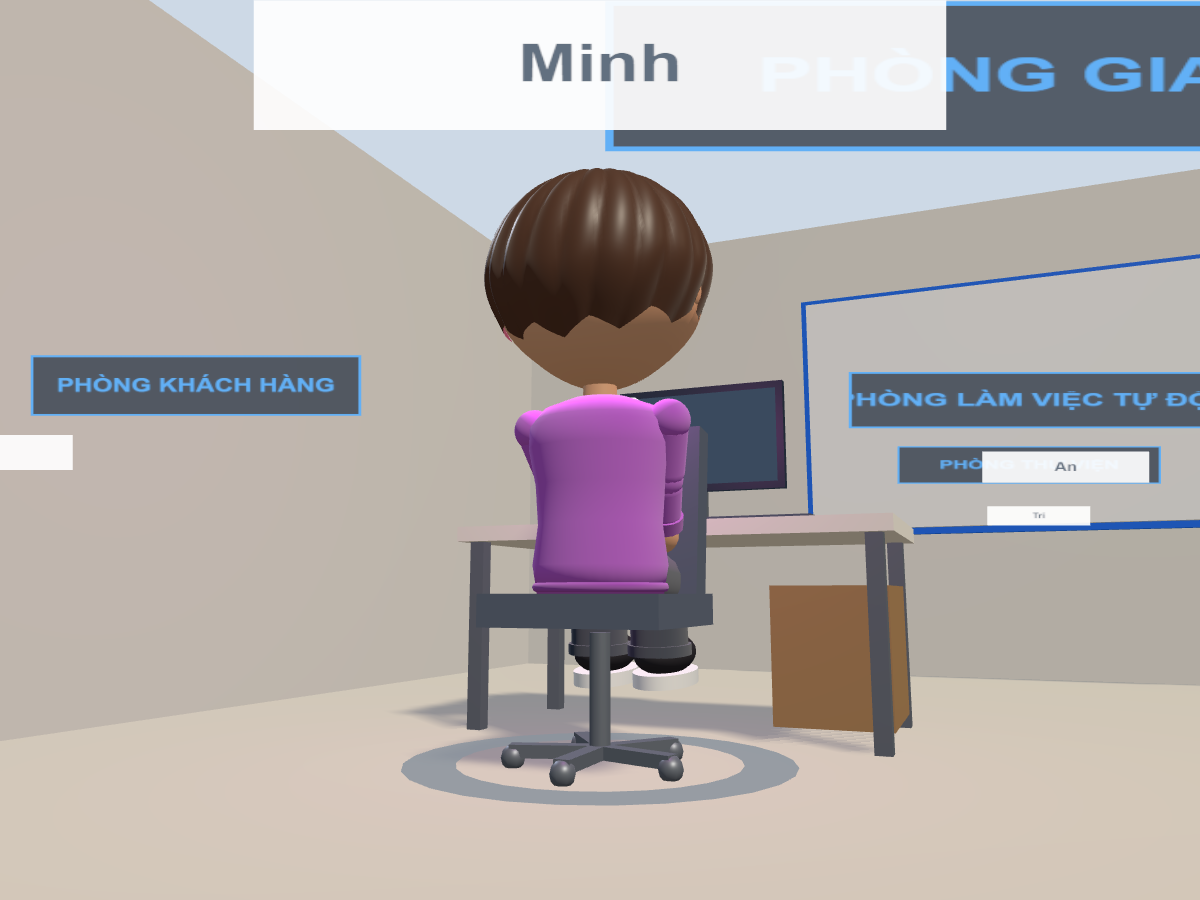
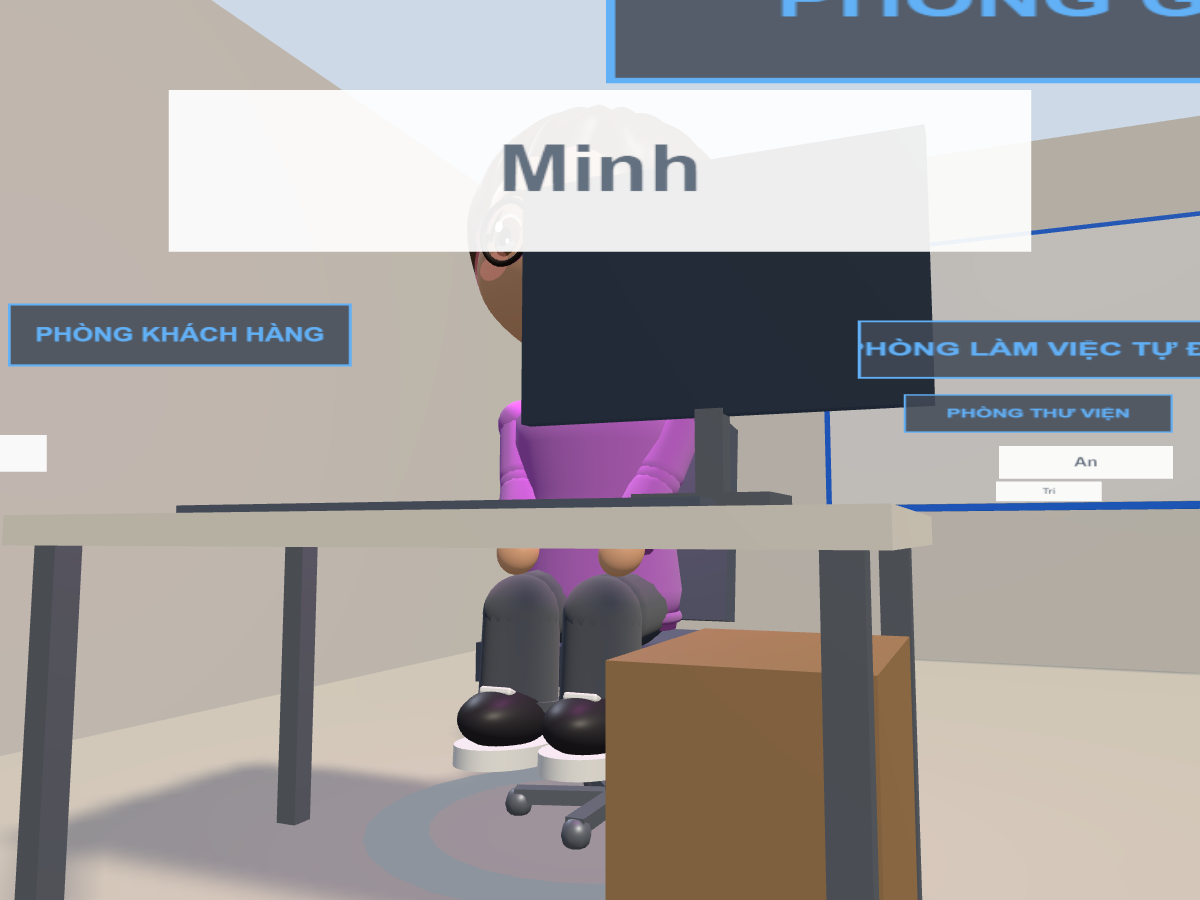
chinh sua bo cuc ban ghe va vong tay sang phia nguoi xem
- ban o +Z, nhan vat quay mat ve ban, nhin thay mat tu camera mac dinh
- man hinh lech sang phai khong che mat
- ghe lui ve sau, luong ghe o -Z
- nhan goc phai dung chieu cao: mau ao/toc/quan/skin do duoc
- them hook kiem thu: pickCenter, bodyH, meshCount
- them script char-map.py de kiem tra hinh dang nhan vat bang ban do vung mau

diff --git a/src/client/main.ts b/src/client/main.ts
@@ -256,13 +256,29 @@ scene.add(floor);
       target: target.toArray(),
       background: (scene.background as THREE.Color | null)?.getHexString?.() ?? null,
       fog: scene.fog ? (scene.fog as THREE.Fog).color.getHexString() : null,
-      agents: [...agents.values()].map((r) => ({
-        id: r.state.id,
-        name: r.state.name,
-        pos: r.visual.root.position.toArray(),
-        animated: r.visual.animated,
-        kind: r.visual.chibi ? "chibi" : r.visual.rig ? "glb" : "capsule",
-      })),
+      agents: [...agents.values()].map((r) => {
+        const box = new THREE.Box3().setFromObject(r.visual.root);
+        const cbox = r.visual.chibi
+          ? new THREE.Box3().setFromObject(r.visual.chibi.root)
+          : null;
+        let meshCount = 0;
+        r.visual.chibi?.root.traverse((o) => {
+          if ((o as THREE.Mesh).isMesh) meshCount++;
+        });
+        return {
+          id: r.state.id,
+          name: r.state.name,
+          animated: r.visual.animated,
+          kind: r.visual.chibi ? "chibi" : r.visual.rig ? "glb" : "capsule",
+          anim: r.visual.chibi?.anim ?? null,
+          sit: r.visual.chibi?.sit ?? null,
+          meshCount,
+          bodyH: cbox
+            ? [+cbox.min.y.toFixed(2), +cbox.max.y.toFixed(2)]
+            : null,
+          bodyW: cbox ? +(cbox.max.x - cbox.min.x).toFixed(2) : null,
+        };
+      }),
     },
   };
 };
@@ -272,8 +288,9 @@ scene.add(floor);
   const rec = agents.get(id);
   if (!rec) return;
   target.set(rec.visual.root.position.x, 1.0, rec.visual.root.position.z);
+  // Nhân vật quay mặt về +Z → camera đứng phía trước mặt.
   yaw = 0.4;
-  pitch = 0.18;
+  pitch = 0.3;
   dist = camDist;
 };
 
@@ -396,7 +413,8 @@ function makeAgent(index: number, status: AgentStatus, name: string): AgentVisua
   const tint = AGENT_TINTS[index % AGENT_TINTS.length];
   const visual = createAgentVisual(characterAsset, tint, status, index, name);
   const nameTag = makeSign("", 2.4, 0.45, "#1f2937");
-  nameTag.position.set(0, visual.animated ? 2.35 : 2.5, 0);
+  // Nhân vật chibi ngồi: đầu ở cao độ ~1.4 → nhãn đặt ngay trên đỉnh đầu.
+  nameTag.position.set(0, visual.chibi ? 1.78 : visual.animated ? 2.35 : 2.5, 0);
   visual.root.add(nameTag);
   visual.tag = nameTag;
   return visual;
@@ -423,8 +441,9 @@ class Screen {
       new THREE.PlaneGeometry(0.68, 0.4),
       new THREE.MeshBasicMaterial({ map: this.tex }),
     );
-    // Màn hình nằm trên bàn, quay mặt về phía người ngồi (+Z).
-    this.mesh.position.set(x, DESK_TOP_Y + 0.43, z);
+    // Màn hình nằm trên bàn. Panel của monitor hướng -Z sau khi xoay PI → đặt
+    // texture ngay trước panel (z nhỏ hơn) để không bị vỏ màn hình che.
+    this.mesh.position.set(x, DESK_TOP_Y + 0.43, z - 0.03);
     this.mesh.rotation.y = Math.PI;
     this.drawIdle();
   }
@@ -570,11 +589,10 @@ function setupAgents(list: AgentState[]): void {
     if (agents.has(a.id)) continue;
     const visual = makeAgent(index++, a.status, a.name);
     visual.root.position.set(a.position.x, 0, a.position.z);
-    // Nhân vật ngồi tại bàn, quay mặt về phía bàn (bàn ở -Z → xoay 180°).
+    // Nhân vật ngồi tại bàn, quay mặt về phía bàn (+Z) → thấy mặt từ camera mặc định.
     if (visual.chibi) visual.chibi.sit = true;
-    visual.root.rotation.y = Math.PI;
     scene.add(visual.root);
-    const screen = new Screen(a.position.x, a.position.z - 1.13);
+    const screen = new Screen(a.position.x + 0.52, a.position.z + 0.72);
     scene.add(screen.mesh);
     agents.set(a.id, { state: a, visual, screen });
     updateAgentTag(a);
@@ -601,9 +619,12 @@ function buildDesks(list: AgentState[]): void {
 
     // Dùng chính vị trí agent làm gốc: bàn ở z = -0.95, ghế tại 0.
     const placements = [
-      { ...layouts.desk, x: 0, z: -0.95 },
-      { ...layouts.chair, x: 0, z: 0, rotY: 0 },
-      { ...layouts.screen, x: 0, z: -1.13 },
+      // Bàn ở phía trước (+Z): nhân vật ngồi quay mặt về bàn, tay gõ xuống mặt bàn.
+      { ...layouts.desk, x: 0, z: 0.62 },
+      // Ghế lùi về sau, lưng ghế ở -Z.
+      { ...layouts.chair, x: 0, z: -0.12, rotY: 0 },
+      // Màn hình đặt lệch sang bên phải để không che mặt nhân vật.
+      { ...layouts.screen, x: 0.52, z: 0.72, rotY: Math.PI },
     ];
     buildFurniture(group, placements, manifest, MAT.propColor);
   }
@@ -647,6 +668,25 @@ function applyStatus(a: AgentState): void {
 /** Hook kiểm thử: đổi trạng thái agent ngay trong scene. */
 (window as any).__agents = agents;
 (window as any).__applyStatus = applyStatus;
+
+/** Hook kiểm thử: vật thể nào nằm ở giữa khung hình. */
+(window as any).__pickCenter = (): string[] => {
+  const rc = new THREE.Raycaster();
+  rc.setFromCamera(new THREE.Vector2(0, 0), camera);
+  return rc
+    .intersectObjects(scene.children, true)
+    .slice(0, 6)
+    .map((h) => {
+      const names: string[] = [];
+      h.object.traverseAncestors((o) => {
+        if (o.name) names.push(o.name);
+      });
+      const mesh = h.object as THREE.Mesh;
+      const mat = mesh.material;
+      const matType = Array.isArray(mat) ? (mat[0]?.type ?? "-") : (mat?.type ?? "-");
+      return `${mesh.type}[${matType}] d=${h.distance.toFixed(2)} ${names.join("<")}`;
+    });
+};
 
 // ---------------- Camera orbit ----------------
 let yaw = 0;

diff --git a/scripts/center-pick.ts b/scripts/center-pick.ts
@@ -1,0 +1,32 @@
+/**
+ * Kiểm tra vật thể nào che camera (dùng raycast từ tâm khung hình).
+ *
+ * Chạy: npx tsx scripts/center-pick.ts [agentId]
+ */
+import { chromium } from "playwright-core";
+
+const AGENT = process.argv[2] ?? "minh";
+const EXECUTABLE = "C:\\Program Files\\Google\\Chrome\\Application\\chrome.exe";
+
+async function main(): Promise<void> {
+  const browser = await chromium.launch({
+    executablePath: EXECUTABLE,
+    args: ["--use-gl=angle", "--enable-unsafe-swiftshader", "--hide-scrollbars"],
+  });
+  const page = await browser.newPage({ viewport: { width: 1200, height: 900 } });
+  await page.goto("http://localhost:5173/?capture=1", { waitUntil: "networkidle" });
+  await page.waitForTimeout(2500);
+  await page.evaluate((id) => (window as any).__focusAgent?.(id, 2.6), AGENT);
+  await page.waitForTimeout(1500);
+
+  const hits = (await page.evaluate(() => (window as any).__pickCenter?.())) as string[];
+  console.log("Vật thể ở tâm khung hình:");
+  for (const h of hits ?? []) console.log("  " + h);
+
+  await browser.close();
+}
+
+main().catch((e) => {
+  console.error(e);
+  process.exit(1);
+});

diff --git a/src/client/assets/roomBuilder.ts b/src/client/assets/roomBuilder.ts
@@ -299,7 +299,8 @@ function buildChair(): THREE.Group {
   g.add(stem);
 
   const seat = new THREE.Mesh(new THREE.BoxGeometry(0.58, 0.1, 0.54), M.seat);
-  seat.position.y = SEAT_Y;
+  // Mặt ghế phải nằm đúng cao độ SEAT_Y (0.49) — chibi ngồi dựa vào đây.
+  seat.position.y = SEAT_Y - 0.05;
   seat.castShadow = true;
   seat.receiveShadow = true;
   g.add(seat);

diff --git a/scripts/char-map.py b/scripts/char-map.py
@@ -1,0 +1,56 @@
+"""
+Kiểm tra nhân vật trong ảnh cảnh 3D bằng bản đồ vùng màu (vì không xem được
+ảnh trực tiếp trong một số phiên làm việc).
+
+Dùng: python scripts/char-map.py docs/shots/closeup-minh.png [cropX cropY cropW cropH]
+"""
+import sys
+from PIL import Image
+
+# (ký hiệu, test(r,g,b))
+PALETTE = [
+    (" ", lambda r, g, b: r > 195 and g > 205 and b > 215),        # nền
+    (".", lambda r, g, b: r > 215 and g > 208 and b > 195 and r - b < 26),  # bàn/tường sáng
+    ("H", lambda r, g, b: r < 95 and g < 78 and b < 68 and r > 18),  # tóc
+    ("S", lambda r, g, b: r > 195 and 140 < g < 225 and 110 < b < 205 and r - b > 38),  # da
+    ("E", lambda r, g, b: r < 70 and g < 60 and b < 60),            # mắt/tối
+    ("A", lambda r, g, b: r > 130 and 60 < g < 150 and 130 < b < 240 and r - g > 40),  # áo magenta
+    ("P", lambda r, g, b: r < 105 and g < 110 and 90 < b < 140),    # quần xanh đen
+    ("M", lambda r, g, b: b > 120 and b - r > 45 and g < b),       # màn hình
+    ("O", lambda r, g, b: r > 140 and 100 < g < 185 and b < 135),   # gỗ
+    ("?", lambda r, g, b: True),
+]
+
+
+def classify(r, g, b):
+    for ch, test in PALETTE:
+        if test(r, g, b):
+            return ch
+    return "?"
+
+
+def main():
+    path = sys.argv[1]
+    im = Image.open(path).convert("RGB")
+    if len(sys.argv) > 5:
+        x0, y0, cw, chh = (int(v) for v in sys.argv[2:6])
+        im = im.crop((x0, y0, x0 + cw, y0 + chh))
+    w = 110
+    ratio = im.height / im.width
+    height = max(1, int(w * ratio * 0.5))
+    small = im.resize((w, height), Image.LANCZOS)
+    px = list(small.getdata())
+    counts = {}
+    for y in range(height):
+        row = ""
+        for x in range(w):
+            ch = classify(*px[y * w + x])
+            counts[ch] = counts.get(ch, 0) + 1
+            row += ch
+        print(row)
+    print()
+    print(" | ".join(f"{k}={v}" for k, v in sorted(counts.items(), key=lambda kv: -kv[1])))
+
+
+if __name__ == "__main__":
+    main()

diff --git a/scripts/ascii-scene.py b/scripts/ascii-scene.py
@@ -1,0 +1,42 @@
+"""
+Render ảnh cảnh 3D thành ASCII art theo phân loại màu, để kiểm tra hình dạng
+nhân vật khi không xem được ảnh.
+
+Dùng: python scripts/ascii-scene.py docs/shots/closeup-minh.png [width]
+"""
+import sys
+from PIL import Image
+
+PALETTE = [
+    (" ", lambda r, g, b: r > 200 and g > 210 and b > 220),           # nền trời
+    (".", lambda r, g, b: abs(r - 240) < 14 and abs(g - 236) < 14 and abs(b - 226) < 16),  # trắng/bàn
+    ("h", lambda r, g, b: r < 90 and g < 75 and b < 65),             # tóc
+    ("s", lambda r, g, b: r > 190 and 140 < g < 230 and 120 < b < 210 and r > b + 30),  # da
+    ("A", lambda r, g, b: r > 120 and g < 140 and b > 130),           # áo màu
+    ("p", lambda r, g, b: r < 110 and g < 110 and b < 120),          # quần/giày tối
+    ("m", lambda r, g, b: b > 130 and b - r > 40),                   # màn hình xanh
+    ("o", lambda r, g, b: r > 150 and g > 120 and b < 130),           # gỗ/sàn ấm
+]
+
+
+def classify(r, g, b):
+    for ch, test in PALETTE:
+        if test(r, g, b):
+            return ch
+    return "?"
+
+
+def main():
+    path = sys.argv[1]
+    width = int(sys.argv[2]) if len(sys.argv) > 2 else 100
+    im = Image.open(path).convert("RGB")
+    ratio = im.height / im.width
+    height = max(1, int(width * ratio * 0.5))
+    small = im.resize((width, height), Image.LANCZOS)
+    px = list(small.getdata())
+    for y in range(height):
+        print("".join(classify(*px[y * width + x]) for x in range(width)))
+
+
+if __name__ == "__main__":
+    main()
